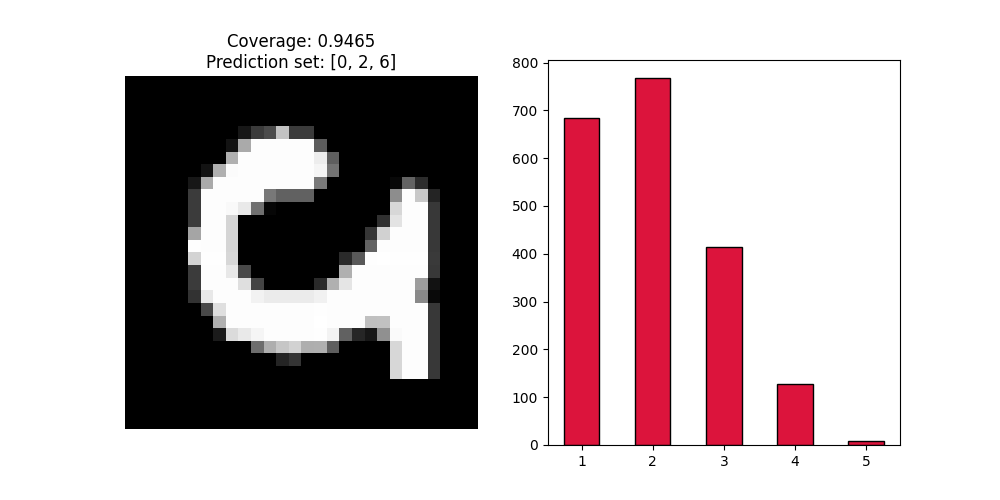
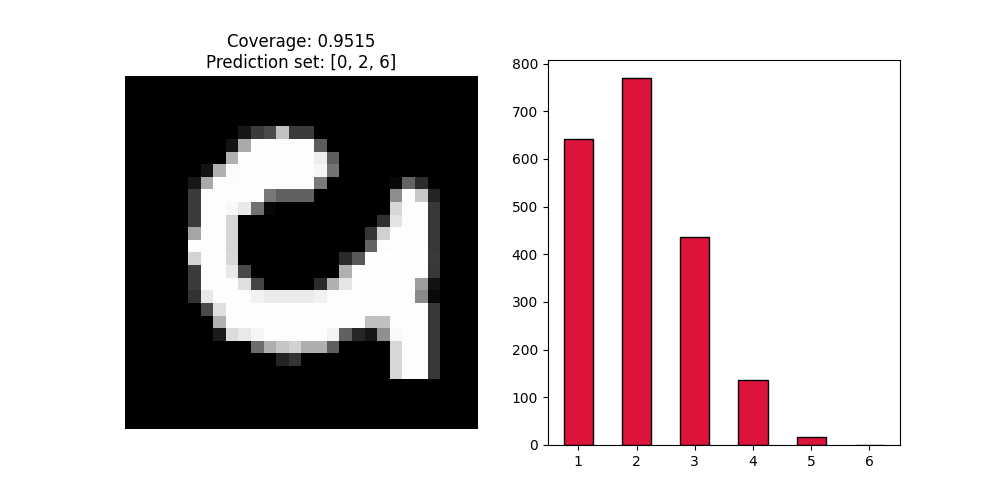
good model

diff --git a/conformalprediction.py b/conformalprediction.py
@@ -11,9 +11,9 @@ M = 2000 #test
 n = 3000
 alpha = 0.05
 
-badmodel = classifier1.Net()
-badmodel.load_state_dict(torch.load("models/mnist_bad.pth"))
-badmodel.eval()
+model = classifier1.Net()
+model.load_state_dict(torch.load("models/mnist_bad.pth"))
+model.eval()
 
 data = MNIST(
     root="data",
@@ -28,7 +28,7 @@ images = torch.stack([data[i][0] for i in range(n)])
 labels = data.targets.numpy()[:n]
 
 with torch.no_grad():
-    logits = badmodel(images)
+    logits = model(images)
     scores = torch.softmax(logits, dim=1).numpy()
 
 
@@ -52,7 +52,7 @@ q_hat = np.quantile(ncscores, quantile, method="higher")
 prediction_sets = test_scores >= (1 - q_hat)
 empirical_coverage = prediction_sets[np.arange(prediction_sets.shape[0]), test_labels].mean()
 
-print(empirical_coverage) #0.9465
+print(empirical_coverage) #0.9465 
 
 
 worst = np.argmin(test_scores[np.arange(M), test_labels])
